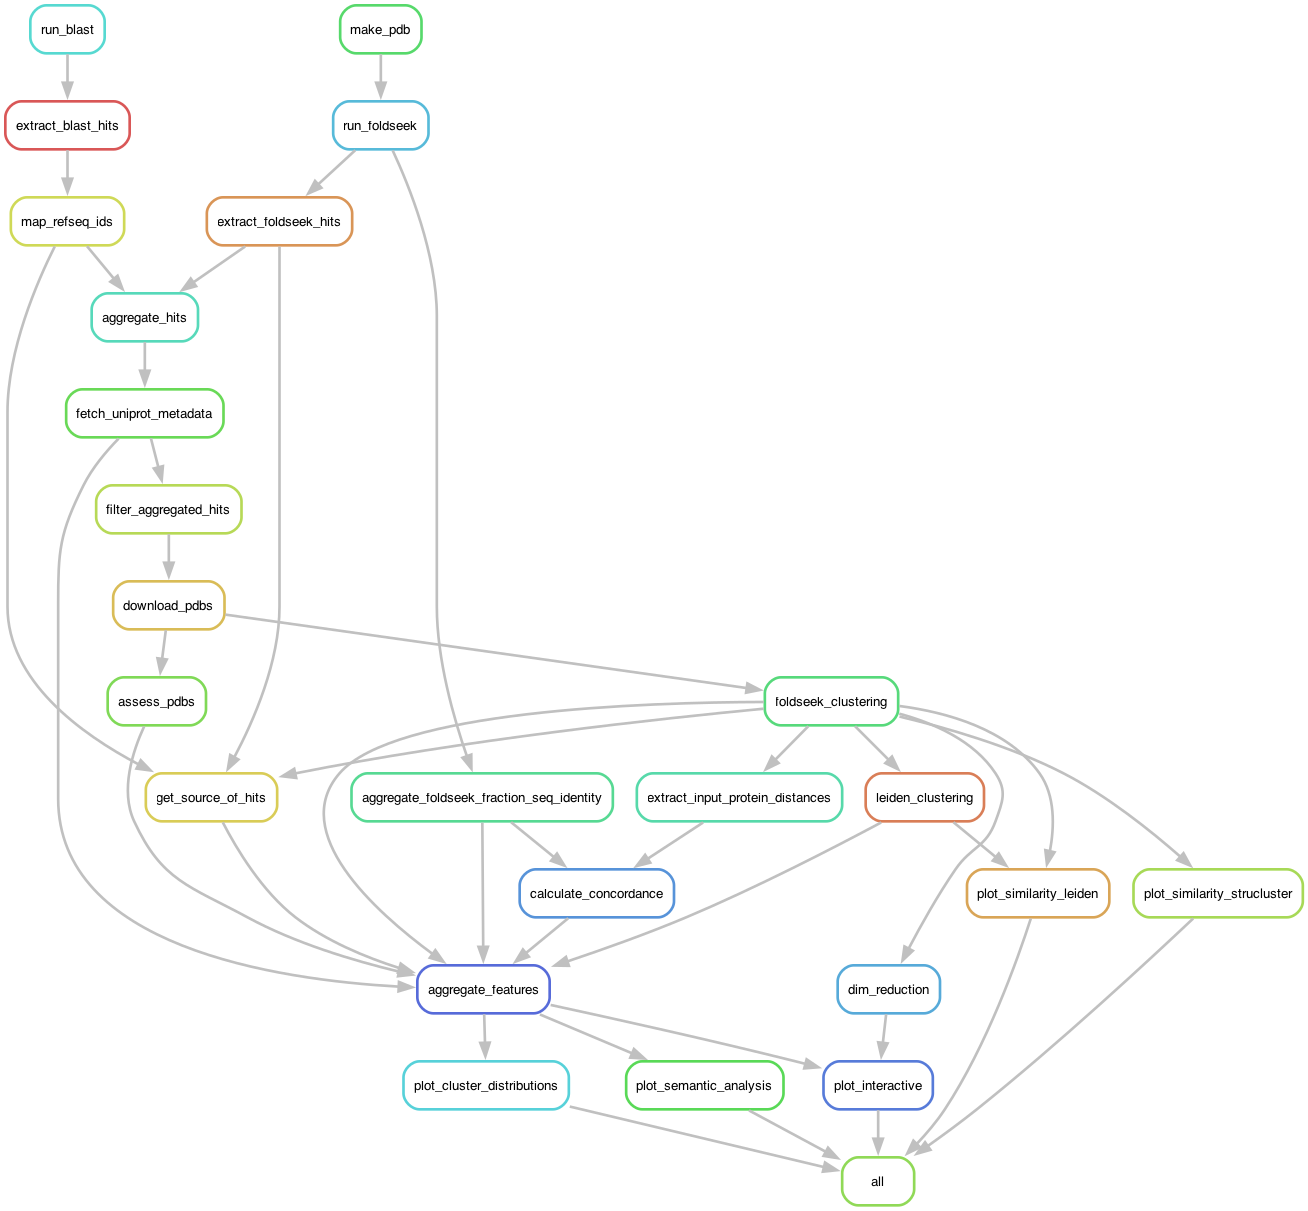
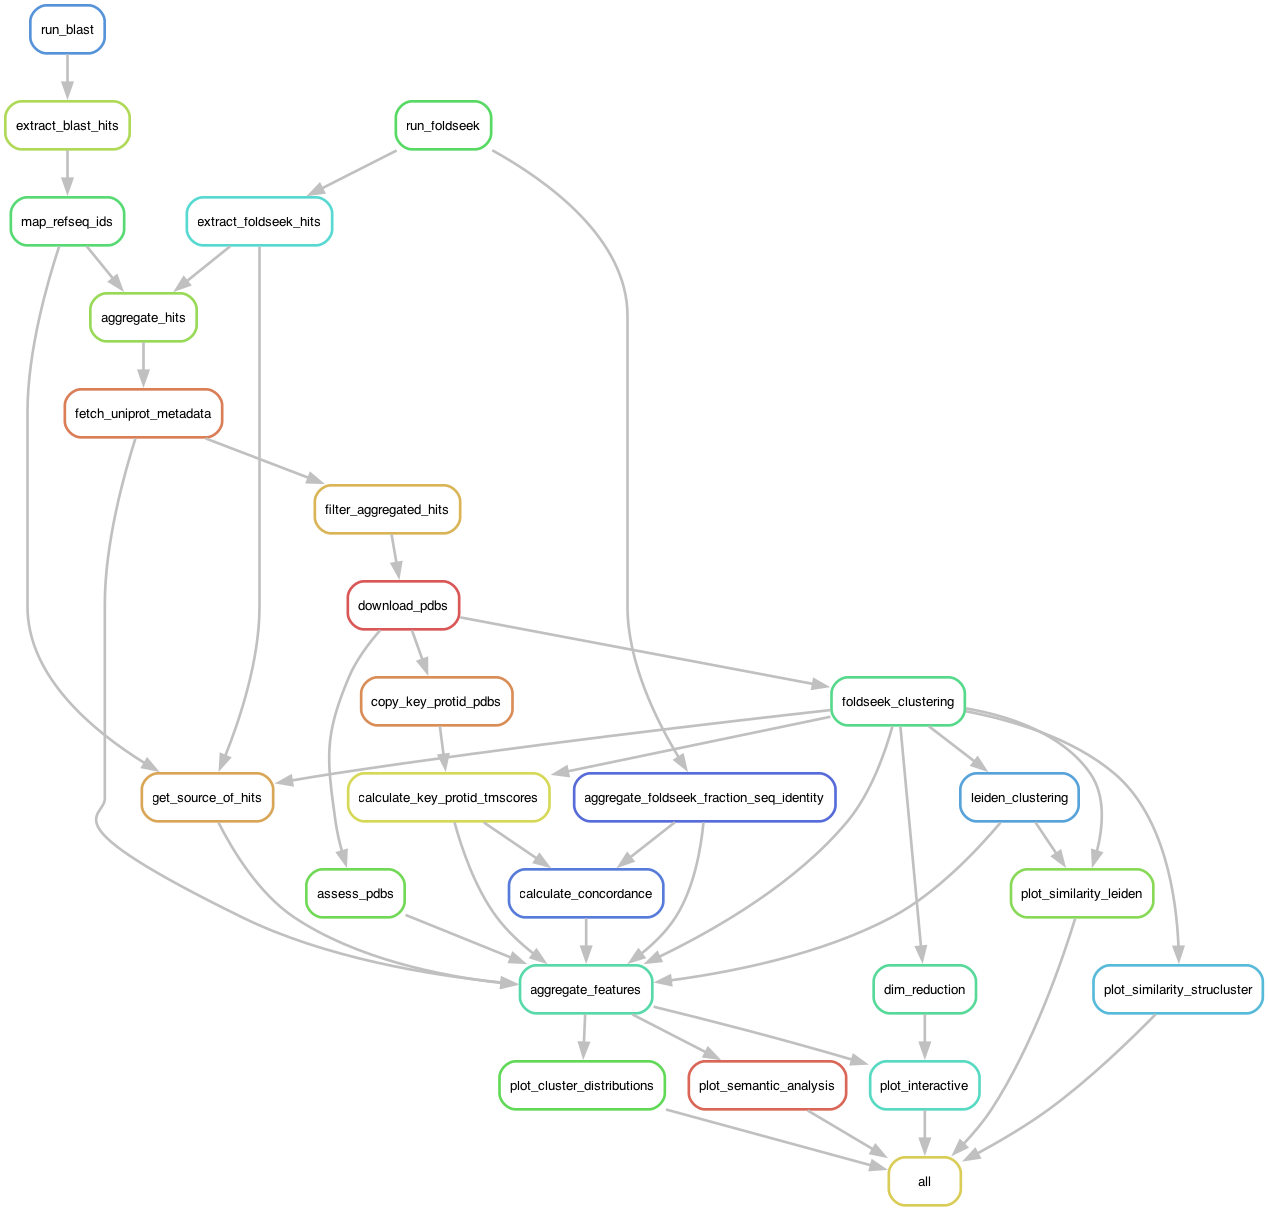
using foldseek to re-calculate TMscores of each input PDB against all PDBs (#136)
* using foldseek to re-calculate TMscores of each input PDB against all PDBs

* addressing some of Dennis' comments

* addressing most of Keith's comments

* addressing comment on Snakefile rule dependencies

* solving error caused by no key_protid in config file in  cluster-mode

* drop duplicated methods by importing them from foldseek_clustering and
write an empty tsv when no PDBs are in the query directory

* fix variable naming and delete some redundant comments

* update readme

* fix inputs to the aggregate_features rule and more readme updates

* add a comment explaining why the key_protid PDBs are not copied at the snakemake level

* update the DAG visualizations

* fix formatting in readme

---------

diff --git a/ProteinCartography/foldseek_clustering.py b/ProteinCartography/foldseek_clustering.py
@@ -66,29 +66,27 @@ def run_foldseek_clustering(
     """
 
     # Generate Path objects for each folder
-    query_Path = Path(query_folder)
-    results_Path = Path(results_folder)
+    query_path = Path(query_folder)
+    results_path = Path(results_folder)
 
     # Generate Path object for temp folder
     if temp_folder is None:
-        temp_Path = results_Path / "temp"
+        temp_path = results_path / "temp"
     else:
-        temp_Path = Path(temp_folder)
+        temp_path = Path(temp_folder)
 
-    # Make Paths if they don't already exist
-    for path in [temp_Path, results_Path]:
+    for path in [temp_path, results_path]:
         if not os.path.exists(path):
             os.mkdir(path)
 
-    # Run steps of Foldseek
-    db_prefix = temp_Path / "temp_db"
-    subprocess.run(["foldseek", "createdb", query_Path, db_prefix])
+    db_prefix = temp_path / "temp_db"
+    subprocess.run(["foldseek", "createdb", query_path, db_prefix])
 
-    foldseek_out = temp_Path / "all_by_all"
-    foldseek_tmp = temp_Path / "tmp"
+    foldseek_out = temp_path / "all_by_all"
+    foldseek_tmp = temp_path / "tmp"
     subprocess.run(["foldseek", "search", db_prefix, db_prefix, foldseek_out, foldseek_tmp, "-a"])
 
-    foldseek_tmscore = temp_Path / "all_by_all_tmscore"
+    foldseek_tmscore = temp_path / "all_by_all_tmscore"
     subprocess.run(
         [
             "foldseek",
@@ -100,7 +98,7 @@ def run_foldseek_clustering(
         ]
     )
 
-    foldseek_distancestsv = results_Path / distances_filename
+    foldseek_distances_tsv = results_path / distances_filename
     subprocess.run(
         [
             "foldseek",
@@ -108,11 +106,11 @@ def run_foldseek_clustering(
             db_prefix,
             db_prefix,
             foldseek_tmscore,
-            foldseek_distancestsv,
+            foldseek_distances_tsv,
         ]
     )
 
-    foldseek_cluster = temp_Path / "clu"
+    foldseek_cluster = temp_path / "clu"
     subprocess.run(
         [
             "foldseek",
@@ -127,7 +125,7 @@ def run_foldseek_clustering(
         ]
     )
 
-    foldseek_clustertsv = results_Path / cluster_filename
+    foldseek_cluster_tsv = results_path / cluster_filename
     subprocess.run(
         [
             "foldseek",
@@ -135,24 +133,24 @@ def run_foldseek_clustering(
             db_prefix,
             db_prefix,
             foldseek_cluster,
-            foldseek_clustertsv,
+            foldseek_cluster_tsv,
         ]
     )
 
     # Return the output filepaths as a tuple
-    return str(foldseek_distancestsv), str(foldseek_clustertsv)
+    return str(foldseek_distances_tsv), str(foldseek_cluster_tsv)
 
 
-def make_struclusters_file(foldseek_clustertsv: str, output_file: str):
+def make_struclusters_file(foldseek_cluster_tsv: str, output_file: str):
     """
     Parses a Foldseek clusters file into a _features.tsv file.
 
     Args:
-        foldseek_clustertsv (str): path of input clusters.tsv file.
+        foldseek_cluster_tsv (str): path of input clusters.tsv file.
         output_file (str): path of destination file.
     """
     # Read the input file
-    df = pd.read_csv(foldseek_clustertsv, sep="\t", names=["ClusterRep", "protid"])
+    df = pd.read_csv(foldseek_cluster_tsv, sep="\t", names=["ClusterRep", "protid"])
 
     # Strip the '.pdb' suffix so indices are protid
     df["ClusterRep"] = df["ClusterRep"].str.rstrip(".pdb")
@@ -243,7 +241,7 @@ def get_line_for_protid(protid_and_targets: tuple, targets: set):
     return [protid] + scores
 
 
-def pivot_foldseek_results(input_file: str, output_file: str):
+def pivot_foldseek_results(input_file: str, output_file: str, column_prefix=""):
     """
     Takes a file with the first three columns being protid, target, and the tmscore.
     It then saves a similarity matrix to a csv. There is no return value.
@@ -259,7 +257,7 @@ def pivot_foldseek_results(input_file: str, output_file: str):
     with open(output_file, "w", newline="") as fh:
         csv_writer = csv.writer(fh, delimiter="\t")
 
-        header = ["protid"] + list(targets)
+        header = ["protid"] + [f"{column_prefix}{target}" for target in sorted(targets)]
         csv_writer.writerow(header)
 
         for entry in sorted(entries.items()):
@@ -272,13 +270,13 @@ def main():
     query_folder = args.query_folder
     results_folder = args.results_folder
 
-    distancestsv, clusterstsv = run_foldseek_clustering(query_folder, results_folder)
+    distances_tsv, clusters_tsv = run_foldseek_clustering(query_folder, results_folder)
 
-    pivotedtsv = distancestsv.replace(".tsv", "_pivoted.tsv")
-    pivot_foldseek_results(distancestsv, pivotedtsv)
+    pivoted_tsv = distances_tsv.replace(".tsv", "_pivoted.tsv")
+    pivot_foldseek_results(input_file=distances_tsv, output_file=pivoted_tsv)
 
-    featurestsv = clusterstsv.replace(".tsv", "_features.tsv")
-    make_struclusters_file(clusterstsv, featurestsv)
+    features_tsv = clusters_tsv.replace(".tsv", "_features.tsv")
+    make_struclusters_file(foldseek_cluster_tsv=clusters_tsv, output_file=features_tsv)
 
 
 # check if called from interpreter

diff --git a/ProteinCartography/calculate_key_protid_tmscores.py b/ProteinCartography/calculate_key_protid_tmscores.py
@@ -1,0 +1,156 @@
+#!/usr/bin/env python
+import argparse
+import os
+import subprocess
+from pathlib import Path
+
+from foldseek_clustering import pivot_foldseek_results
+
+__all__ = [
+    "run_foldseek_clustering",
+]
+
+
+def parse_args():
+    parser = argparse.ArgumentParser()
+    parser.add_argument(
+        "-q",
+        "--query-database",
+        required=True,
+        help="Path to the query database file.",
+    )
+    parser.add_argument(
+        "-t",
+        "--target-folder",
+        required=True,
+        help="Path to target folder that contains the target .pdb file.",
+    )
+    parser.add_argument(
+        "-r",
+        "--results-folder",
+        required=True,
+        help="Path to destination folder to save results.",
+    )
+    parser.add_argument(
+        "-f",
+        "--features-file",
+        required=True,
+        help="Path to the destination of the final TM-scores .csv file.",
+    )
+    args = parser.parse_args()
+
+    return args
+
+
+def run_foldseek_clustering(
+    query_database: str,
+    target_folder: str,
+    results_folder: str,
+    temp_folder=None,
+    distances_filename="key_protid_tmscores.tsv",
+):
+    """
+    Runs foldseek query_vs_target TMscore comparison of
+    all query PDBs identified by the pipeline and a target PDB.
+    Saves results to an output results_folder.
+    Puts temporary files in a temp_folder
+    (called `temp` in the results_folder if not specified explicity.)
+
+    TODO (KC): Consider de-duplicating this method and `foldseek_clustering.run_foldseek_clustering`
+    as it is nearly identical to this method.
+
+    Args:
+        query_database (str): path to the Foldseek database of the query .pdb files.
+        target_folder (str): path to a folder with the target .pdb files.
+        results_folder (str): path to a results folder.
+        temp_folder (str): path to a temporary folder. Defaults to results_folder / temp_tm
+        distances_filename (str): filename for output distances file.
+            Defaults to `key_protid_tmscores.tsv`.
+    Return:
+        a tuple containing the full file paths of the distances file.
+    """
+
+    query_path = Path(query_database)
+    target_path = Path(target_folder)
+    results_path = Path(results_folder)
+
+    foldseek_distances_tsv_query_vs_target = results_path / distances_filename
+
+    if temp_folder is None:
+        temp_path = results_path / "temp_tm"
+    else:
+        temp_path = Path(temp_folder)
+
+    for path in [temp_path, results_path]:
+        if not os.path.exists(path):
+            os.mkdir(path)
+
+    db_prefix_target = temp_path / "temp_db_target"
+    subprocess.run(["foldseek", "createdb", target_path, db_prefix_target])
+
+    foldseek_out_query_vs_target = temp_path / "query_vs_target"
+    foldseek_tmp_query_vs_target = temp_path / "tmp_query_vs_target"
+    subprocess.run(
+        [
+            "foldseek",
+            "search",
+            query_path,
+            db_prefix_target,
+            foldseek_out_query_vs_target,
+            foldseek_tmp_query_vs_target,
+            "-a",
+            "--exhaustive-search",
+        ]
+    )
+
+    foldseek_tmscore_query_vs_target = temp_path / "key_protid_tmscores.tsv"
+    subprocess.run(
+        [
+            "foldseek",
+            "aln2tmscore",
+            query_path,
+            db_prefix_target,
+            foldseek_out_query_vs_target,
+            foldseek_tmscore_query_vs_target,
+        ]
+    )
+
+    subprocess.run(
+        [
+            "foldseek",
+            "createtsv",
+            query_path,
+            db_prefix_target,
+            foldseek_tmscore_query_vs_target,
+            foldseek_distances_tsv_query_vs_target,
+        ]
+    )
+
+    return str(foldseek_distances_tsv_query_vs_target)
+
+
+def main():
+    args = parse_args()
+    query_database = args.query_database
+    target_folder = args.target_folder
+    results_folder = args.results_folder
+    features_file = args.features_file
+
+    # If there are no PDB files in the target_folder, then there is nothing for this script to do.
+    # But to keep snakemake happy, we need to create the output file of the snakemake rule
+    # that calls this script, and to keep downstream scripts happy,
+    # the output file needs to be read by `pd.read_csv` as an empty dataframe.
+    if not any(Path(target_folder).glob("*.pdb")):
+        with open(features_file, "w") as file:
+            file.write("protid\n")
+            pass
+        return
+
+    distances_tsv = run_foldseek_clustering(query_database, target_folder, results_folder)
+    pivot_foldseek_results(
+        input_file=distances_tsv, output_file=features_file, column_prefix="TMscore_v_"
+    )
+
+
+if __name__ == "__main__":
+    main()

diff --git a/README.md b/README.md
@@ -110,7 +110,7 @@ In this mode, the pipeline starts with a folder containing PDBs of interest and 
         - `output`: directory where all pipeline outputs are placed.
         - `analysis_name`: nickname for the analysis, appended to important output files.
         - `features_file`: path to features file (described below).
-        - (Optional) `keyids`: key `protid` values for proteins to highlight similar to input proteins in the Search mode.
+        - (Optional) `keyids`: a list of one or more key `protid` corresponding to the proteins to highlight in the output plots (similar to how the input proteins are highlighted in 'search' mode). Note: if not provided, the output directory `key_protid_tmscore_results` will be empty, as will the `protein_features/key_protid_tmscore_features.tsv` file.
         - See [`config.yml`](config.yml) for additional parameters.
 - Features file with protein metadata.
     - Usually, we call this file `uniprot_features.tsv` but you can use any name.
@@ -194,19 +194,20 @@ The **Cluster** mode starts at the "Clustering" step.
     - For clustering, we use the defaults of [`scanpy`'s Leiden clustering implementation](https://scanpy.readthedocs.io/en/latest/generated/scanpy.tl.leiden.html#scanpy-tl-leiden).
 
 ### Data Analysis and Aggregation
-9. Generate a variety of `_features.tsv` files.
+A note about nomenclature: the meaning of the phrase `key_protid` used in the filenames below is mode-dependent: in 'search' mode, the 'key' protids are simply the input protids, while in 'cluster' mode, the key protids are the protids specified in the `key_protids` list in the `config.yml` file.
+
+9. Generate a variety of `*_features.tsv` files.
     - Each file has, as its first column, a list of protein ids (protid) that are shared between files.
     - We query UniProt to get all metadata from that service as a `uniprot_features.tsv` file.
     - Foldseek generates a `struclusters_features.tsv` file.
     - We perform Leiden clustering to generate a `leiden_features.tsv` file.
-    - We extract from Foldseek's all-v-all TM-score analysis a distance from every protid to our input protids as `<input_protid>_distance_features.tsv` files.
-    Not available in Cluster mode:
-    - We extract from Foldseek search a fraction sequence identity for every protid in our input protids as `<input_protid>_fident_features.tsv` files.
-    - We subtract the fraction sequence identity from the TM-score to generate a `<input_protid>_convergence_features.tsv` file.
+    - We use Foldseek to calculate the TM-score for the input protids (in search mode) or the 'key' protids (in cluster mode) versus all of the protids to generate a `key_protid_tmscore_features.tsv` file.
+    - We extract from Foldseek search a fraction sequence identity for every protid in our input/key protids as `<key_protid>_fident_features.tsv` files.
+    - We subtract the fraction sequence identity from the TM-score to generate a `<key_protid>_concordance_features.tsv` file.
     - We determine the source of each file in the analysis (whether it was found from blast or Foldseek) as the `source_features.tsv` file.
 
 10. Aggregate features.
-    - All of the features.tsv files are combined into one large `aggregated_features.tsv` file.
+    - All of the `*_features.tsv` files are combined into one large `aggregated_features.tsv` file.
 
 ### Plotting
 11. Calculate per-cluster structural similarities.
@@ -349,7 +350,6 @@ These files end with `'.tsv'` and contain distance or similarity matrices, usual
 - **Input to:**
     - [`plot_cluster_similarity.py`](ProteinCartography/plot_cluster_similarity.py)
     - [`dim_reduction.py`](ProteinCartography/dim_reduction.py)
-    - [`extract_input_protein_distances.py`](ProteinCartography/extract_input_protein_distances.py)
 - **Output from:**
     - [`foldseek_clustering.py`](ProteinCartography/foldseek_clustering.py)
 
@@ -373,7 +373,7 @@ The remaining columns are metadata for each protein. These metadata can be of an
 - **Output from:**
     - [`aggregate_fident.py`](ProteinCartography/aggregate_fident.py)
     - [`calculate_convergence.py`](ProteinCartography/calculate_convergence.py)
-    - [`extract_input_protein_distances.py`](ProteinCartography/extract_input_protein_distances.py)
+    - [`calculate_key_protid_tmscores.py`](ProteinCartography/calculate_key_protid_tmscores.py)
     - [`foldseek_clustering.py`](ProteinCartography/foldseek_clustering.py)
     - [`get_source_of_hits.py`](ProteinCartography/get_source_of_hits.py)
     - [`leiden_clustering.py`](ProteinCartography/leiden_clustering.py)
